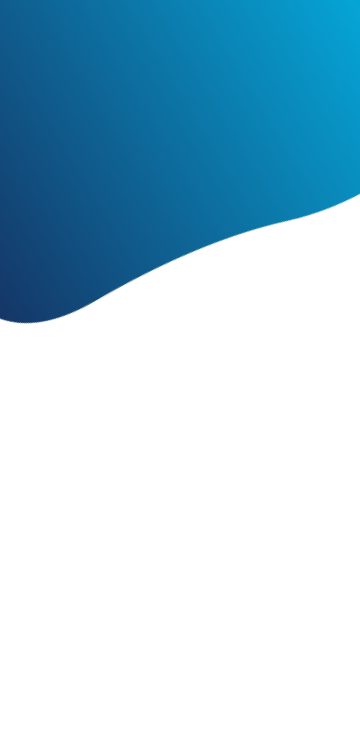
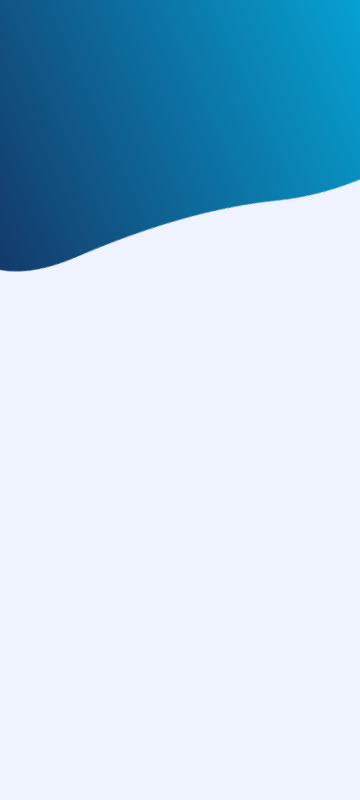
Changed Background and improved optimization

Changed region(s): [[0.0, 0.2176, 1.0, 0.4351]]

diff --git a/lib/presentation/login_screen/login_screen.dart b/lib/presentation/login_screen/login_screen.dart
@@ -50,7 +50,7 @@ class _LoginScreenState extends State<LoginScreen> {
         children: [
           Positioned.fill(
             child: Image.asset(
-              'assets/images/background.png', // Replace with your actual image path
+              'assets/images/background3.png', // Replace with your actual image path
               fit: BoxFit.cover,
             ),
           ),
@@ -69,30 +69,33 @@ class _LoginScreenState extends State<LoginScreen> {
       child: Column(
         mainAxisAlignment: MainAxisAlignment.center,
         children: [
-          Expanded(
-            child: Padding(
-              padding: EdgeInsets.fromLTRB(
-                  16.0, 16.0, 16.0, 2.0), // Adjust the padding as needed
-              child: Container(
-                padding: EdgeInsets.all(
-                    27.0), // Adjust the padding within the container as needed
-                child: FittedBox(
-                  fit: BoxFit
-                      .scaleDown, // Adjust the fit property to scale down the image
-                  alignment:
-                      Alignment.bottomCenter, // Adjust the alignment to bottom
-                  child: CustomImageView(
-                    imagePath: ImageConstant.imgSaillogo1,
-                  ),
-                ),
-              ),
-            ),
-          ),
-          Text(
+          // Expanded(
+          //   child: Padding(
+          //     padding: EdgeInsets.fromLTRB(
+          //         16.0, 16.0, 16.0, 2.0), // Adjust the padding as needed
+          //     child: Container(
+          //       padding: EdgeInsets.all(
+          //           27.0), // Adjust the padding within the container as needed
+          //       child: FittedBox(
+          //         fit: BoxFit
+          //             .scaleDown, // Adjust the fit property to scale down the image
+          //         alignment:
+          //             Alignment.bottomCenter, // Adjust the alignment to bottom
+          //         child: CustomImageView(
+          //           imagePath: ImageConstant.imgSaillogo1,
+          //         ),
+          //       ),
+          //     ),
+          //   ),
+          // ),
+          Padding(
+            padding: EdgeInsets.only(top: getVerticalSize(326)),
+            child: Text(
             "MES APP",
             overflow: TextOverflow.ellipsis,
             textAlign: TextAlign.center,
             style: AppStyle.txtPoppinsExtraBold35,
+          ),
           ),
           Text(
             "LOGIN",

diff --git a/lib/presentation/call_sms_screen/call_sms_screen.dart b/lib/presentation/call_sms_screen/call_sms_screen.dart
@@ -63,16 +63,16 @@ class _CallSmsScreenState extends State<CallSmsScreen> {
                             String phoneNumber = '';
 
                             if (index == 0) {
-                              name = 'John Doe';
-                              position = 'Manager';
-                              phoneNumber = '1234567890';
+                              name = 'Arun Kotnis';
+                              position = 'General Manager';
+                              phoneNumber = '9407982428';
                             } else if (index == 1) {
-                              name = 'Jane Smith';
-                              position = 'Supervisor';
+                              name = 'Akshat Pandey';
+                              position = 'Intern';
                               phoneNumber = '23232';
                             } else if (index == 2) {
-                              name = 'Michael Johnson';
-                              position = 'Engineer';
+                              name = 'Abhishek Pandey';
+                              position = 'Intern';
                               phoneNumber = '232323';
                             } else if (index == 3) {
                               name = 'Emily Brown';

diff --git a/lib/splash_screen.dart b/lib/splash_screen.dart
@@ -46,7 +46,7 @@ class _SplashScreenState extends State<SplashScreen>
       if (_isAnimationComplete) {
         Navigator.of(context).pushReplacement(
           PageRouteBuilder(
-            transitionDuration: Duration(milliseconds: 900),
+            transitionDuration: Duration(milliseconds: 1200),
             pageBuilder: (_, __, ___) => LoginScreen(),
             transitionsBuilder:
                 (_, Animation<double> animation, __, Widget child) {
@@ -98,7 +98,7 @@ class _SplashScreenState extends State<SplashScreen>
                     ),
                     SizedBox(height: 0.2 * imageSize),
                     Text(
-                      'MES APP\nBSP,SAIL',
+                      'MES APP\nBSP(SAIL)',
                       style: TextStyle(
                         fontSize: 0.2 * imageSize,
                         fontWeight: FontWeight.bold,

diff --git a/lib/theme/app_style.dart b/lib/theme/app_style.dart
@@ -5,7 +5,7 @@ class AppStyle {
   static TextStyle txtPoppinsBold48 = TextStyle(
     color: ColorConstant.indigo500,
     fontSize: getFontSize(
-      48,
+      40,
     ),
     fontFamily: 'Poppins',
     fontWeight: FontWeight.w700,
